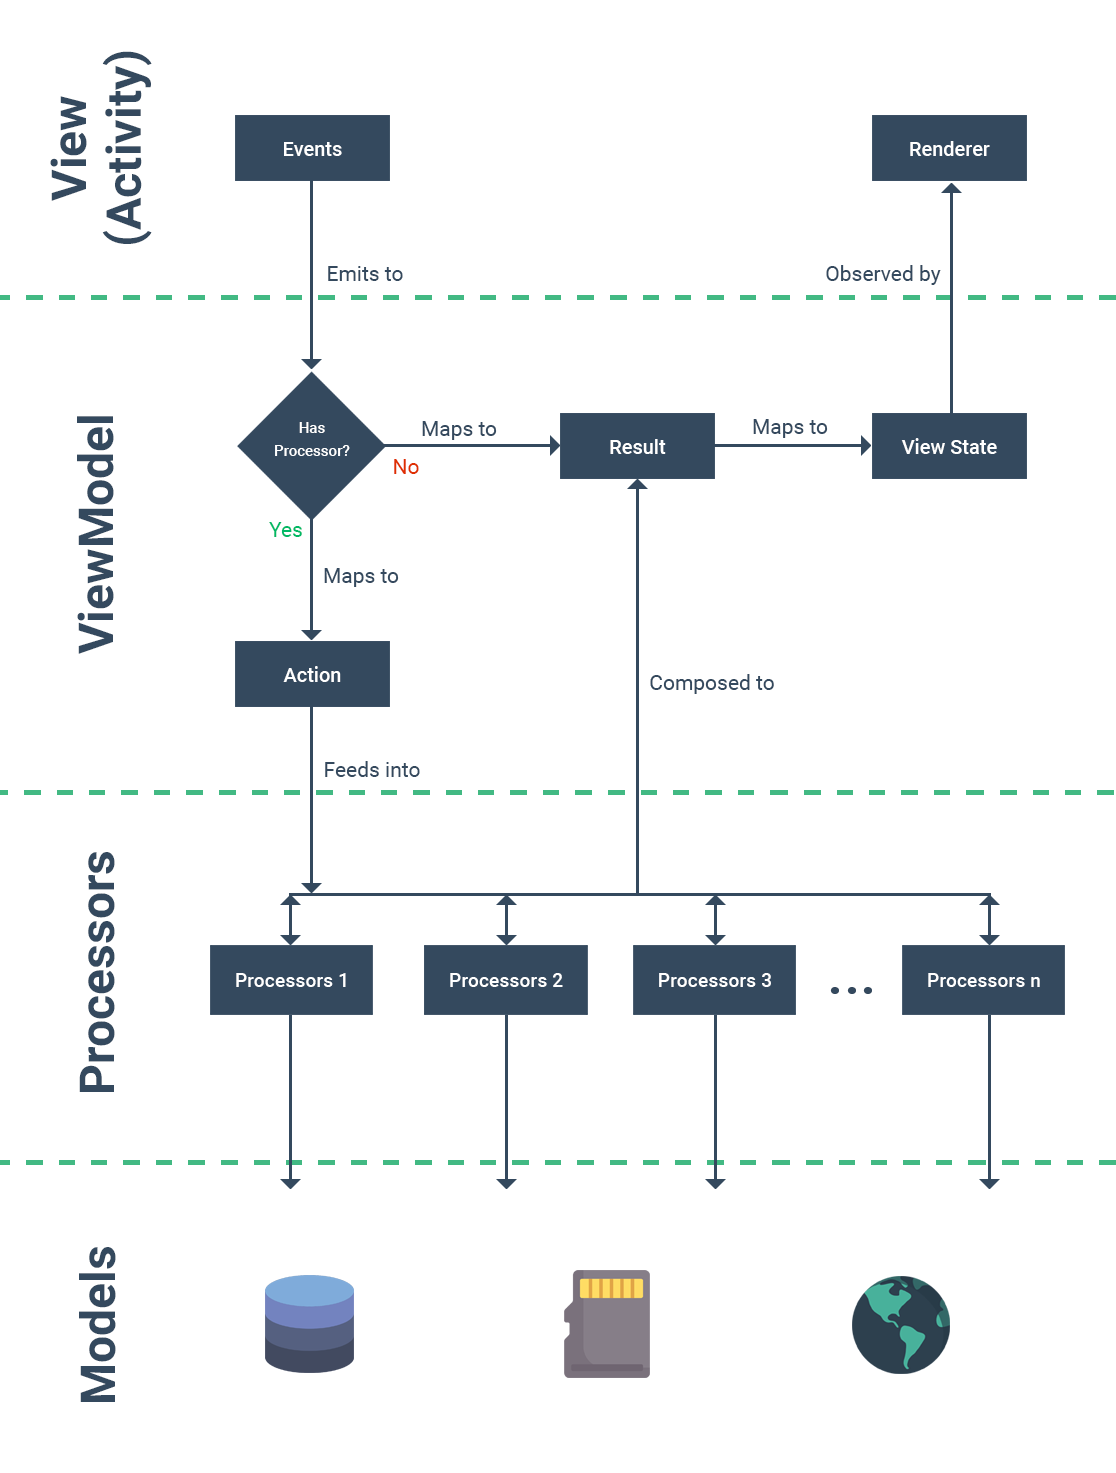
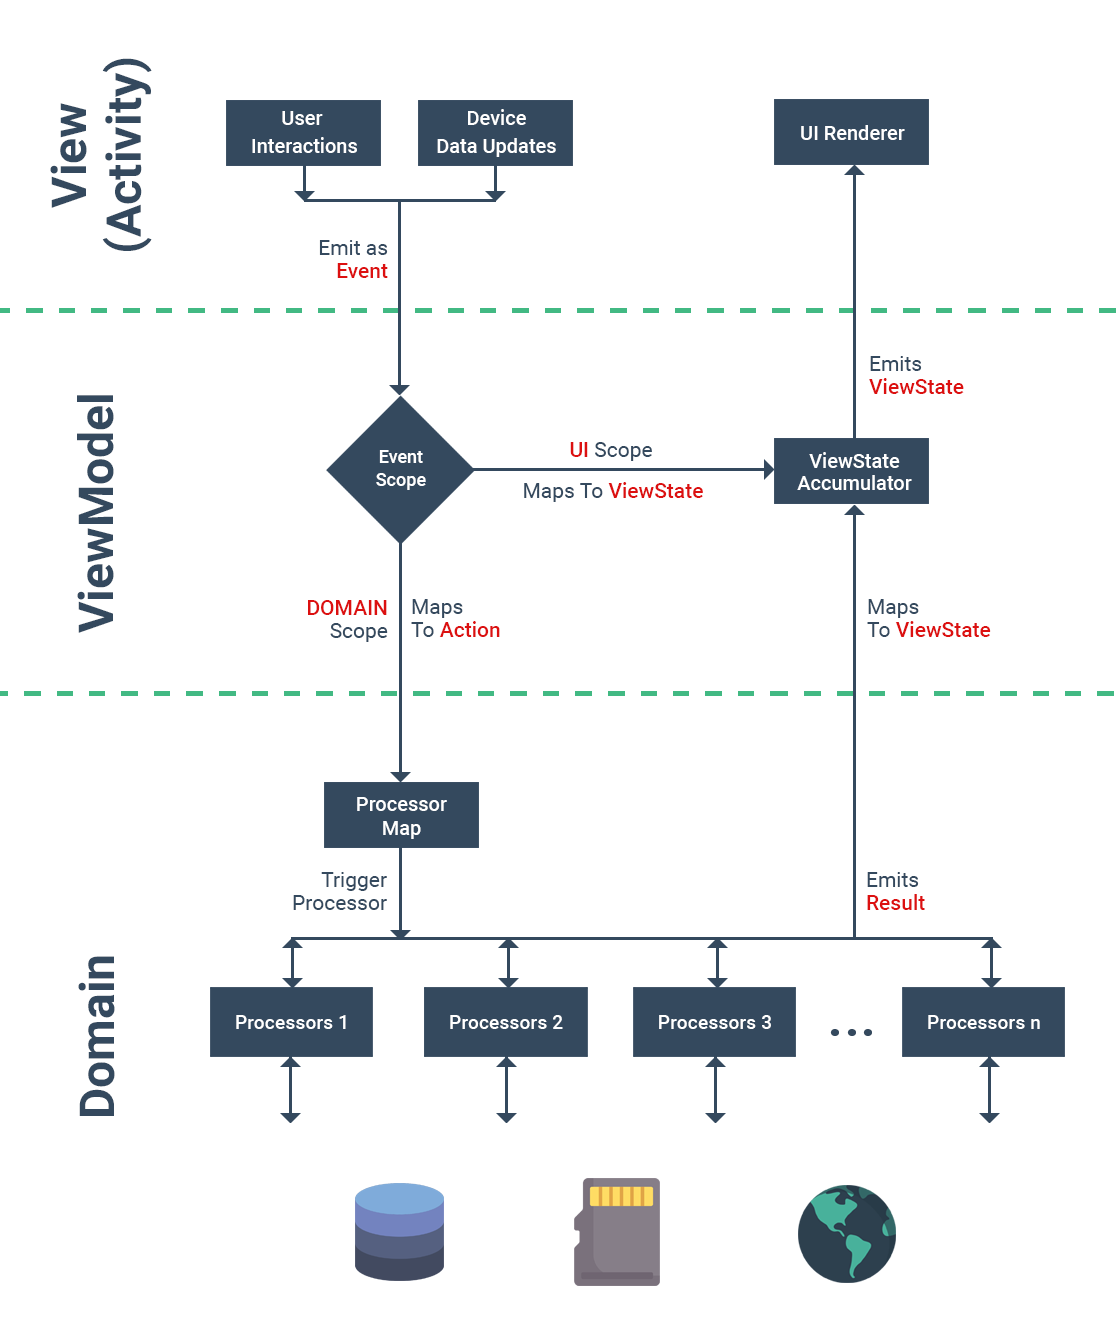
Arch update

diff --git a/docs/getting-started/design-pattern.md b/docs/getting-started/design-pattern.md
@@ -2,7 +2,9 @@
 
 > Even though RxFuel is a framework, your project won't be entitled to the boundaries of a framework.
 
-Each Activity is will a have an Observable stream that takes in events and emits view states by which the UI is rendered. Activity is binded with it's ViewModel. Everytime activity is re-created, the previous view states is emitted again to render UI to the latest. This eliminates the need of using fragments to persist the data in an activity lifeycle. If you have any fragment in your activity, you can simply pass the data from view state using an Observable subject and takes in events using another observable subject.
+Each Activity have an Observable stream that takes in events and emits view states by which the UI is rendered. UI and business logic are highly decoupled.
+
+An Activity is binded with it's ViewModel. Everytime activity is re-created, the previous view state is re-emitted to render the UI to the latest. This eliminates the need of using fragments to persist the data in an activity lifeycle. If you have any fragment in your activity, you can simply pass the data from view state using an Observable subject and takes in events using another observable subject.
 
 Each activity should have a set of classes to represent `Event`, `Action`, `Result` and `ViewState`.
 
@@ -10,28 +12,30 @@ You can have any structure for your project, but we recommend the following stru
 
 ```
 package
-|
-└───processors
-│   │
-│   │   processor1.kt
-│   │   processor2.kt
-│   │   ...
+└───data
+│   └───processor
+│   │   │   Processor1.kt
+│   │   │   Processor2.kt
+│   │   │   ...
+│   └───action
+│   │   │   Action1.kt
+│   │   │   Action2.kt
+│   │   │   ...
+│   └───result
+│   │   │   Result1.kt
+│   │   │   Result2.kt
+│   │   │   ...
 │   
 └───ui
-│   │   
-│   └───activity1
-│   │   │   
+│   └───my
 │   │   └───fragments
-│   │   │   │
-│   │   │   │  fragment1.kt 
+│   │   │   │  Fragment1.kt 
 │   │   │   │  ...
-│   │   │   activity.kt
-│   │   │   activityViewModel.kt
-│   │   │   activityEvent.kt
-│   │   │   activityAction.kt
-│   │   │   activityResult.kt
-│   │   │   activityViewState.kt
+│   │   │   MyActivity.kt
+│   │   │   MyViewModel.kt
+│   │   │   MyEvent.kt
+│   │   │   MyViewState.kt
+│   │   │   ...
 │   │   ...
-
-       
+│   ...
 ```

diff --git a/docs/basics/event.md b/docs/basics/event.md
@@ -1,1 +1,16 @@
 # Event
+
+> Event is basically a class that represents some event that happens from the android device. It could be user UI interactions, GPS location update etc.
+
+Every activity should have a base event class that is inherited from `RxFuelEvent`. Since you will have many events in your Activity you can define a class for each as a sub class.
+
+RxFuelEvent has an abstract Boolean member val `hasProcessor` that you need to implement in your event classes. Set it to `true` if that particular event needs processing such as web request, long background process, database query etc. Such events need to be mapped to action in your ViewModel and define a processor for it.
+
+```kotlin
+sealed class MyEvent : RxFuelEvent {
+    data class SearchEvent(val query: String, override val hasProcessor: Boolean = true) : MyEvent()
+    sealed class ButtonClick : MyEvent() {
+        override val hasProcessor: Boolean = false
+    }
+}
+```

diff --git a/docs/basics/view-state.md b/docs/basics/view-state.md
@@ -1,1 +1,16 @@
 # ViewState
+
+> ViewState is a class that represents the data that need to render the UI.
+
+Every Activity should have a ViewState [data class](https://kotlinlang.org/docs/reference/data-classes.html) that is inherited from `RxFuelViewState`. Define all variable that need to render the UI. ViewStates instances are created using Result with a copy of previous ViewState instance from your ViewModel.
+
+!> `RxFuelViewState` have an abstract val `navigate`. Assign it with an Activity class if you need to navigate and `null` otherwise. Keep it `null` by default.
+
+```kotlin
+data class MyViewState(
+                        val isLoading : Boolean,
+                        val response: List<Item>? = null,
+                        val errorMessage : String? = null,
+                        override var navigate: KClass<out FragmentActivity>? = null
+                      ) : RxFuelViewState
+```

diff --git a/docs/basics/result.md b/docs/basics/result.md
@@ -1,1 +1,15 @@
 # Result
+
+> Result is a class that represents the data that need to be displayed to the user.
+
+Every Activity should have a base result class that is inherited from `RxFuelResult`. Define a result class for every processor you have as a sub class. In most cases you will have multiple result for a single processor such success result, loading, failure etc. Create a sub class for each in a nested way to make it more idiomatic.
+
+```kotlin
+sealed class MyResult : RxFuelAction {
+    sealed class SearchResult : MyResult() {
+        data class Success(val response : List<Item>) : SearchResult()
+        object InFlight : SearchResult()
+        data class Failure(val errorMessage : String) : SearchResult()
+    }
+}
+```

diff --git a/docs/basics/processors.md b/docs/basics/processors.md
@@ -1,1 +1,13 @@
 # Processors
+
+> Processor is basically an [Observable transformer](http://reactivex.io/RxJava/javadoc/rx/Observable.Transformer.html) that receives an Action Observable and returns Result Observable.
+
+A processor is used to do a specific task such as api requests, database query, long background processing etc. They are highly decoupled with UI and can be reused. 
+
+A Processor is defined for an action and return Result Observable. It could emit sub result such as loading, failure, etc by using Observable side effect methods.
+
+```kotlin
+sealed class MyAction : RxFuelAction {
+    data class SearchAction(val query: String) : MyAction()
+}
+```

diff --git a/docs/basics/action.md b/docs/basics/action.md
@@ -1,1 +1,11 @@
 # Action
+
+> Action is a class that represents the data that need to be processed.
+
+Action class need to be inherited from `RxFuelAction`. We recommend to define it Define an action class for every processor you have as a sub class. You will need to map events that have processor to the action you define, in your ViewModel.
+
+```kotlin
+sealed class MyAction : RxFuelAction {
+    data class SearchAction(val query: String) : MyAction()
+}
+```

diff --git a/docs/_sidebar.md b/docs/_sidebar.md
@@ -7,13 +7,13 @@
     
 * Basics
 
-    * [View](/basics/view)
-    * [ViewModel](/basics/view-model)
-    * [Processors](/basics/processors)
     * [Event](/basics/event)
     * [Action](/basics/action)
     * [Result](/basics/result)
     * [ViewState](/basics/view-state)
+    * [Processors](/basics/processors)
+    * [View](/basics/view)
+    * [ViewModel](/basics/view-model)
     
 * More Features
 

diff --git a/docs/basics/view.md b/docs/basics/view.md
@@ -1,1 +1,2 @@
 # View
+
